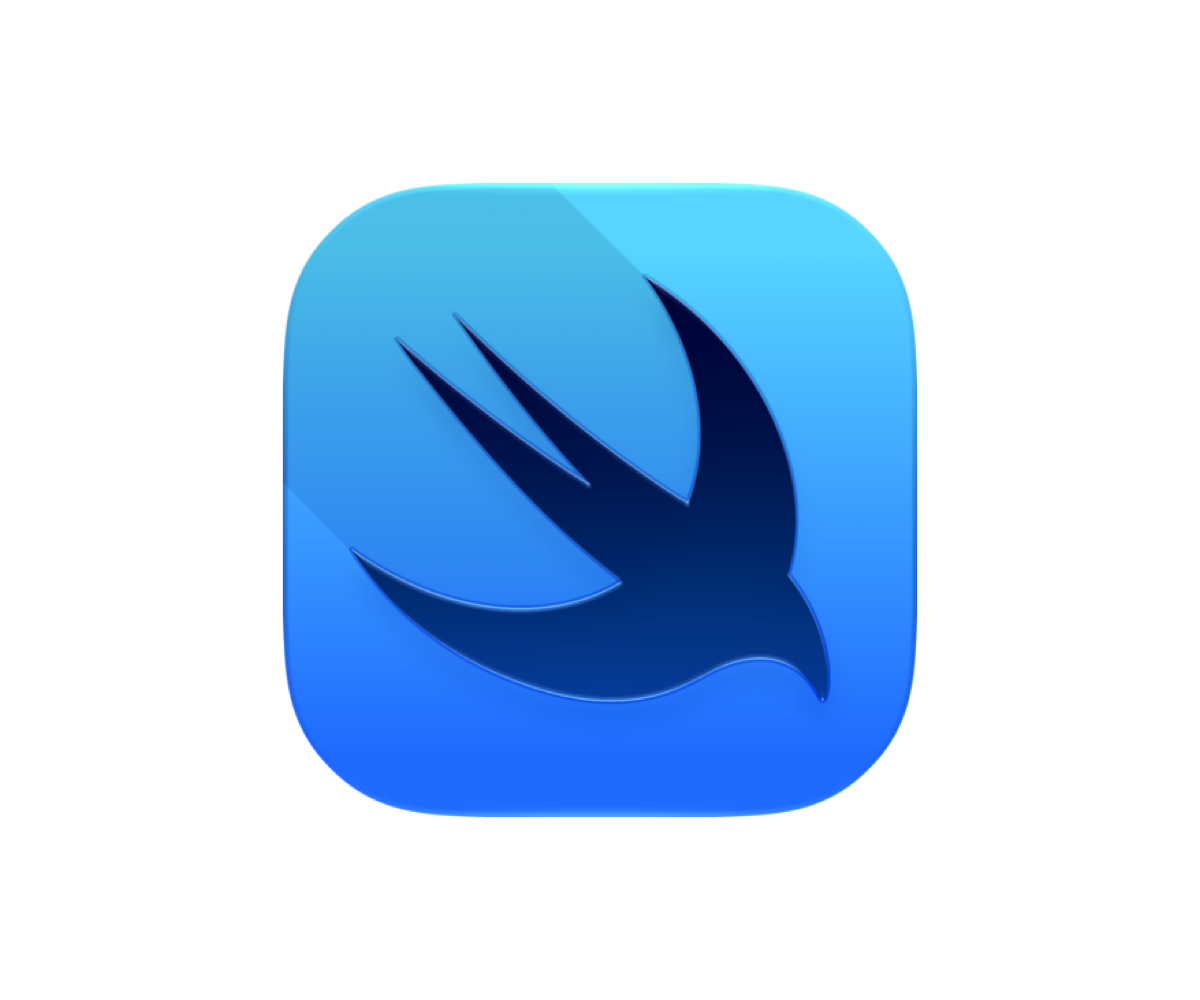
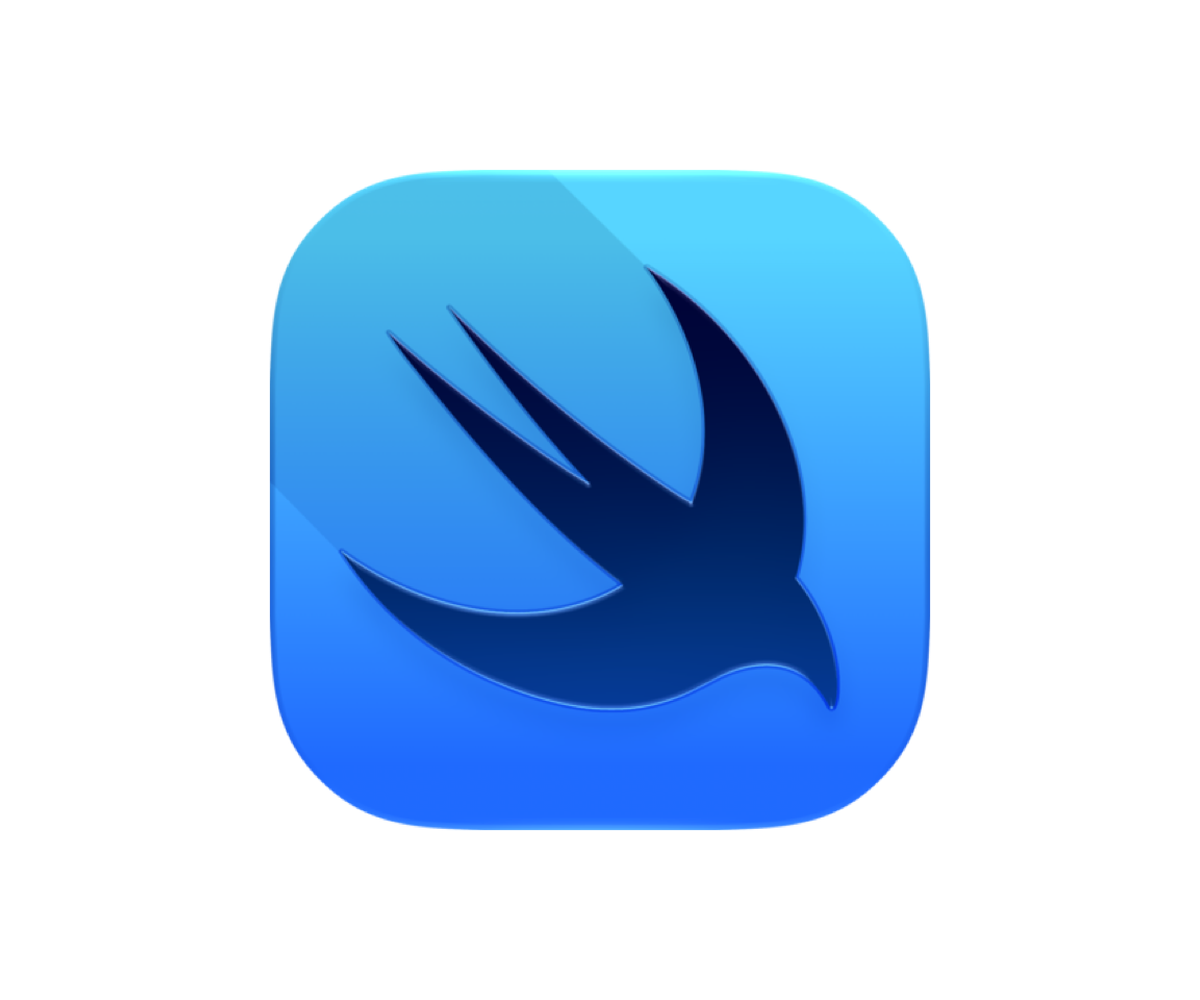
Fix mobile post-list layout and normalise cover art (#6)
* fix: rein in mobile post-list covers and undersized masthead logo

The cover thumbnail grid only kicked in at >=550px, so on phones PaperMod
rendered list covers full-bleed at their natural aspect ratio — a
screen-filling logo above two lines of text. Apply the grid at every
width with an 88px thumbnail column below 550px, and switch the
thumbnail to object-fit: contain so the centred logos these posts use
stay whole instead of being cropped into.

The masthead logo had the opposite problem: PaperMod scales .profile img
to 0.85 under 768px, leaving the mark undersized above a title that
wraps to nearly the full viewport. Undo that scale and size the sprite
explicitly to 165x220 — width and height must move together, since the
visible half is a 3:4 crop window over the 3:2 two-up sprite.

Also exclude .tag-entry from the grid. It hides its cover, so it was
reserving an empty thumbnail column and squeezing the text.

Claude-Session: https://claude.ai/code/session_01Bbts4wHCUyWRaBK4eNH5cW

* fix: stack mobile covers at logo size, normalise cover optical weight

Mobile keeps PaperMod's stacked order — cover above the text, where there
is no horizontal room to spare — and caps the cover at 92px tall so it
reads as a logo rather than a hero. The side-thumbnail grid now starts at
550px instead of applying at every width.

Cover art was also unnormalised. All twelve covers already shared a
1200x1000 canvas, but the artwork inside varied from 25% to 48% of it, so
[…]

diff --git a/site/assets/css/extended/custom.css b/site/assets/css/extended/custom.css
@@ -150,8 +150,12 @@ a:hover, .post-content a:hover {
 }
 
 .profile img {
-    /* Show only the left (day) half of the combined logos.png sprite */
-    width: 135px;
+    /* Show only the left (day) half of the combined logos.png sprite.
+       The 3:4 box is the crop window over the 3:2 sprite — height is
+       load-bearing, not decoration. Change the two together or the night
+       half bleeds in from the right. */
+    width: 144px;
+    height: 192px;
     object-fit: cover;
     object-position: left;
     border-radius: 0 !important;
@@ -180,7 +184,35 @@ a:hover, .post-content a:hover {
    carries ~24px of transparent space below the brain, so a negative top margin
    pulls the title up to close the *visual* gap (not just the element gap). */
 .profile-brand h1 {
-    margin: -0.85rem 0 0;
+    margin: -0.91rem 0 0;
+}
+
+/* On phones the title wraps to nearly the full viewport width, and PaperMod
+   additionally shrinks the logo (transform: scale(0.85) under 768px), so the
+   mark ends up undersized above its own title. Undo the theme's scale and size
+   the sprite explicitly instead.
+
+   Width and height must grow together: the visible half is a 3:4 crop window
+   over the 3:2 sprite, so widening alone lets the other half bleed in. Must
+   stay after .profile-brand h1 above — same specificity, so source order is
+   what lets the tightened margin win. */
+@media (max-width: 768px) {
+    .profile img {
+        transform: none;
+        width: 153px;
+        height: 204px;
+    }
+    /* Scales with the logo — the sprite's transparent footer grows too. */
+    .profile-brand h1 {
+        margin-top: -0.96rem;
+    }
+}
+
+/* Reclaim some of the fold the taller masthead takes on small screens. */
+@media (max-width: 550px) {
+    .main .profile {
+        padding: 32px 0 28px;
+    }
 }
 
 /* Subtitle styling kept defensively in case the param is re-added */
@@ -351,9 +383,35 @@ ul.post-tags li a:hover {
     transform: translateY(-1px);
 }
 
-/* ── 12. Cover thumbnail grid (post list) ──────────────────────────────── */
+/* ── 12. Cover thumbnails (post list) ──────────────────────────────────── */
+/* Narrow screens keep PaperMod's stacked order — cover above the text, where
+   there's no horizontal room to spare — but the height cap is what does the
+   work. Left unstyled the cover renders full-bleed at its natural aspect
+   ratio, which on a phone is a screen-filling logo above two lines of text.
+
+   Cover art is centred logos on transparent canvases, so `contain` keeps them
+   whole (where `cover` crops into them) and centres them in the wider box. */
+.post-entry .entry-cover {
+    margin-bottom: 14px;
+}
+.post-entry .entry-cover img {
+    width: 100%;
+    height: 116px;
+    object-fit: contain;
+    border-radius: 8px;
+    filter: saturate(0.88);
+    transition: transform 0.28s cubic-bezier(0.4, 0, 0.2, 1), filter var(--tr);
+}
+.post-entry:hover .entry-cover img {
+    transform: scale(1.05);
+    filter: saturate(1.05);
+}
+
+/* Wide enough for a side thumbnail: move the cover into its own column.
+   `.tag-entry` hides its cover (PaperMod), so it stays out of the grid —
+   otherwise it reserves an empty thumbnail column and squeezes the text. */
 @media (min-width: 550px) {
-    .post-entry:has(.entry-cover) {
+    .post-entry:not(.tag-entry):has(.entry-cover) {
         display: grid;
         grid-template-columns: 1fr 120px;
         grid-template-rows: auto auto auto;
@@ -370,16 +428,7 @@ ul.post-tags li a:hover {
     .post-entry .entry-footer  { grid-area: footer; }
 
     .post-entry .entry-cover img {
-        width: 100%;
         height: 100px;
-        object-fit: cover;
-        border-radius: 8px;
-        filter: saturate(0.88);
-        transition: transform 0.28s cubic-bezier(0.4, 0, 0.2, 1), filter var(--tr);
-    }
-    .post-entry:hover .entry-cover img {
-        transform: scale(1.05);
-        filter: saturate(1.05);
     }
 }
 

diff --git a/scripts/normalize-cover.py b/scripts/normalize-cover.py
@@ -1,0 +1,130 @@
+#!/usr/bin/env python3
+"""Normalise the optical size of post cover logos.
+
+Every cover shares a 1200x1000 canvas, but the artwork inside them arrives at
+whatever size the source logo happened to be — VS Code's mark filled 48% of its
+canvas while PyTorch's filled 25%, so in the post list one looked twice the
+weight of the other. This rescales the artwork so each logo carries a
+comparable amount of visual weight, leaving the canvas untouched.
+
+Sizing is by the geometric mean of the ink bounding box, not by width or
+height alone: that treats a square icon, a tall stack and a wide wordmark
+fairly, where fitting everything to a common height would blow the wordmark up.
+Two caps stop extreme aspect ratios from running away.
+
+Ink is measured at alpha >= 128 so soft drop shadows don't inflate the box, but
+the full artwork (shadows included) is what gets scaled and recentred.
+
+Idempotent — re-running on an already-normalised file is a no-op.
+
+This is for cover art only. Screenshots and diagrams inside a post body are
+sized by their content, not their optical weight, so don't point it at them —
+prefer --all, which reads cover paths out of each post's frontmatter.
+
+Usage:
+    python3 scripts/normalize-cover.py --all            # every post cover
+    python3 scripts/normalize-cover.py --all --check    # report, write nothing
+    python3 scripts/normalize-cover.py <cover>.png      # one specific file
+"""
+
+import argparse
+import glob
+import math
+import os
+import re
+import sys
+
+from PIL import Image
+
+POSTS = "site/content/posts"
+
+TARGET = 660  # geometric mean of the ink bbox, in canvas pixels
+MAX_W = 860   # caps, so a wide wordmark or tall stack can't dominate
+MAX_H = 720
+
+
+def measure(im):
+    """Return (ink_bbox, full_bbox) — solid artwork, and artwork incl. shadows."""
+    alpha = im.getchannel("A")
+    ink = alpha.point(lambda v: 255 if v >= 128 else 0).getbbox()
+    full = alpha.point(lambda v: 255 if v > 8 else 0).getbbox()
+    return ink, full
+
+
+def scale_for(ink):
+    w, h = ink[2] - ink[0], ink[3] - ink[1]
+    s = TARGET / math.sqrt(w * h)
+    if w * s > MAX_W:
+        s = MAX_W / w
+    if h * s > MAX_H:
+        s = MAX_H / h
+    return s
+
+
+def normalize(path, check_only=False):
+    im = Image.open(path).convert("RGBA")
+    W, H = im.size
+    ink, full = measure(im)
+    if ink is None or full is None:
+        print(f"{path}: no artwork found, skipped")
+        return True
+
+    s = scale_for(ink)
+    if abs(s - 1) < 0.01:
+        print(f"{path}: already normalised")
+        return True
+    if check_only:
+        print(f"{path}: needs {s:.3f}x")
+        return False
+
+    art = im.crop(full).resize(
+        (max(1, round((full[2] - full[0]) * s)), max(1, round((full[3] - full[1]) * s))),
+        Image.LANCZOS,
+    )
+    # Centre on the ink, not the full box, so a one-sided shadow doesn't
+    # push the logo off centre.
+    cx = ((ink[0] + ink[2]) / 2 - full[0]) * s
+    cy = ((ink[1] + ink[3]) / 2 - full[1]) * s
+
+    out = Image.new("RGBA", (W, H), (0, 0, 0, 0))
+    out.alpha_composite(art, (round(W / 2 - cx), round(H / 2 - cy)))
+    out.save(path)
+    print(f"{path}: scaled {s:.3f}x")
+    return True
+
+
+def discover_covers(root):
+    """Cover images named in post frontmatter, resolved relative to the post."""
+    covers = []
+    for index in sorted(glob.glob(os.path.join(root, "*", "index.md"))):
+        m = re.search(r'^\s*image\s*=\s*"([^"]+)"', open(index).read(), re.M)
+        if not m:
+            continue
+        path = os.path.join(os.path.dirname(index), m.group(1))
+        if os.path.exists(path):
+            covers.append(path)
+    return covers
+
+
+def main():
+    ap = argparse.ArgumentParser(description=__doc__)
+    ap.add_argument("images", nargs="*",
+                    help="cover images to normalise (omit with --all)")
+    ap.add_argument("--all", action="store_true",
+                    help=f"normalise every cover named in {POSTS}/*/index.md")
+    ap.add_argument("--check", action="store_true",
+                    help="report what would change without writing")
+    args = ap.parse_args()
+
+    images = args.images
+    if args.all:
+        images = discover_covers(POSTS) + images
+    if not images:
+        ap.error("give one or more images, or --all")
+
+    ok = all([normalize(p, args.check) for p in images])
+    return 0 if ok else 1
+
+
+if __name__ == "__main__":
+    sys.exit(main())

diff --git a/CLAUDE.md b/CLAUDE.md
@@ -21,6 +21,16 @@ This creates `site/content/posts/<slug>/index.md` from `site/archetypes/posts/in
 
 Set `draft = false` (or remove the field) to publish. Draft posts are excluded from production builds but visible locally via `./preview.sh`.
 
+### Cover images
+
+Covers are logos on a transparent 1200x1000 canvas. They render `contain`-fit into a fixed box in the post list, so the *artwork inside the canvas* — not the canvas — decides how big a logo looks. After adding a cover, normalise its optical weight so it doesn't out-shout its neighbours:
+
+```bash
+python3 scripts/normalize-cover.py --all          # or --check to preview
+```
+
+The script only touches covers named in post frontmatter. Leave body screenshots and diagrams alone — they're sized by their content.
+
 ## Design tokens
 
 The site's colors are OKLCH tokens in `site/assets/css/extended/custom.css` (warm cream light / deep navy dark, steel-blue accent). Three places must stay visually in sync with those tokens:
